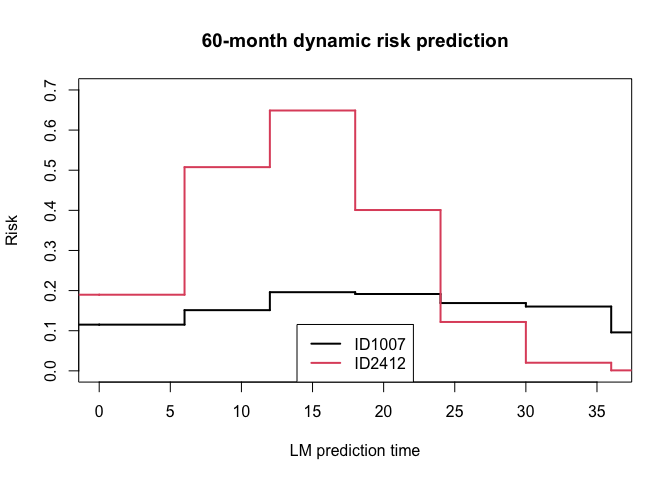
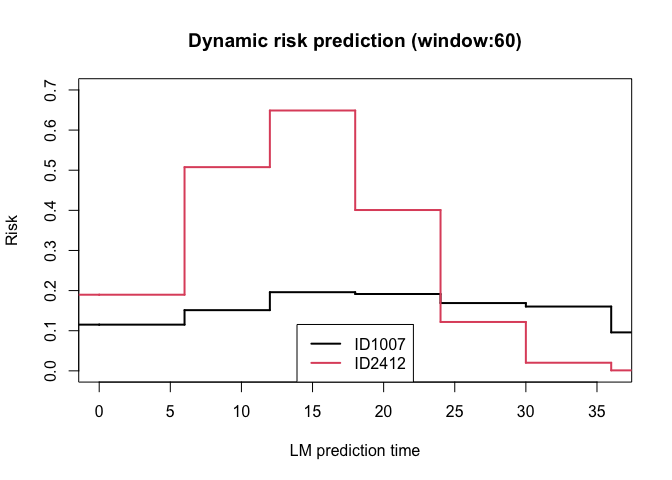
Update README

Changed region(s): [[0.2812, 0.0625, 0.7812, 0.125]]

diff --git a/README.md b/README.md
@@ -77,7 +77,7 @@ You can install the development version of `dynamicLM` from
 ``` r
 # install.packages("devtools")
 devtools::install_github("thehanlab/dynamicLM", ref = "proposed-updates")
-#> Skipping install of 'dynamicLM' from a github remote, the SHA1 (859bb12f) has not changed since last install.
+#> Skipping install of 'dynamicLM' from a github remote, the SHA1 (f6c669fb) has not changed since last install.
 #>   Use `force = TRUE` to force installation
 ```
 
@@ -362,11 +362,11 @@ print(supermodel)
 #> $func_covars
 #> $func_covars$[[1]]
 #> function(t) t
-#> <bytecode: 0x10f68b6d8>
+#> <bytecode: 0x1267be180>
 #> 
 #> $func_covars$[[2]]
 #> function(t) t^2
-#> <bytecode: 0x10f70c2a0>
+#> <bytecode: 0x117ff8510>
 #> 
 #> $func_lms
 #> $func_lms$[[1]]
@@ -458,7 +458,6 @@ between models. This list can be of supermodels or prediction objects
 ``` r
 par(mfrow=c(2,3), pty="s")
 outlist <- calplot(list("LM supermodel" = p1), 
-                    unit = "month",            # for the titles
                     times = c(0,6,12,18,24,30),# landmarks at which to provide calibration plots
                     method = "quantile", q=10, # method for calibration plot
                     # Optional plotting parameters to alter
@@ -481,11 +480,10 @@ Brier score (BSt).
 
 ``` r
 scores <- Score(list("LM supermodel" = p1),
-                     times = c(6,12,18,24), # landmarks at which to assess
-                     unit = "month")        # for the print out
+                     times = c(6,12,18,24)) # landmarks at which to assess
 scores
 #> 
-#> Metric: Time-dependent AUC for 60-month risk prediction
+#> Metric: Time-dependent AUC (window 60)
 #> 
 #> Results by model:
 #>    tLM         model    AUC  lower  upper
@@ -495,9 +493,9 @@ scores
 #> 4:  24 LM supermodel 55.188 43.949 66.427
 #> NOTE: Values are multiplied by 100 and given in %.
 #> NOTE: The higher AUC the better.
-#> NOTE: Predictions are made at time tLM for 60-month risk
+#> NOTE: Predictions are made at time tLM for risk windows of length 60
 #> 
-#> Metric: Time-dependent Brier Score for 60-month risk prediction
+#> Metric: Time-dependent Brier Score (window 60)
 #> 
 #> Results by model:
 #>    tLM         model  Brier lower  upper
@@ -511,7 +509,7 @@ scores
 #> 8:  24 LM supermodel 11.467 8.247 14.687
 #> NOTE: Values are multiplied by 100 and given in %.
 #> NOTE: The lower Brier the better.
-#> NOTE: Predictions are made at time tLM for 60-month risk
+#> NOTE: Predictions are made at time tLM for risk windows of length 60
 ```
 
 These results can also be plot with point wise confidence intervals.
@@ -534,8 +532,7 @@ however many bootstrap replications are desired). Note that the argument
 # Remember to fit the supermodel with argument 'x = TRUE'
 scores <- Score(list("Model1" = supermodel),
               times = c(0, 6),
-              split.method = "bootcv", B = 10, # 10 bootstraps
-              unit = "month")
+              split.method = "bootcv", B = 10) # 10 bootstraps
 ```
 
 **External validation** can be performed by specifying the supermodel as
@@ -593,7 +590,7 @@ head(dat)
 
 ``` r
 plotrisk(supermodel, dat, format = "long", lm_col = "LM", id_col = "ID", 
-           ylim = c(0, 0.7), x.legend = "bottom", unit = "month")
+           ylim = c(0, 0.7), x.legend = "bottom")
 ```
 
 <img src="man/figures/README-plotrisk-1.png" width="100%" />
